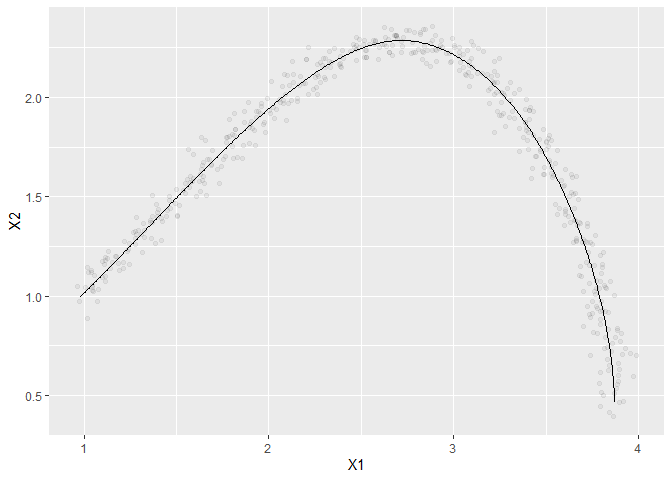
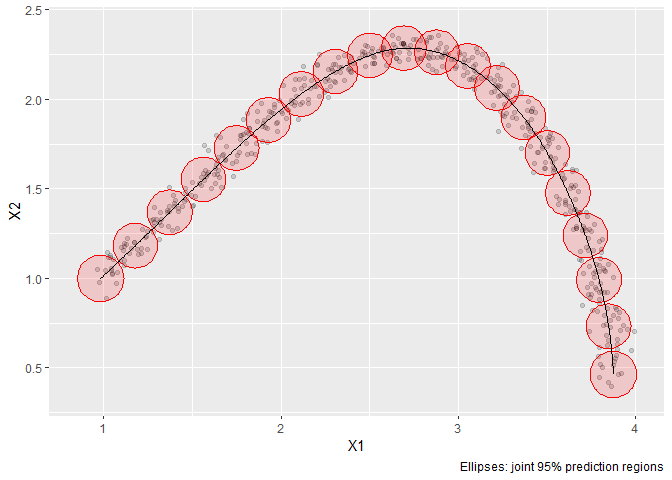
Add path intervals to visualizeEstPath; show path coverage in README
- visualizeEstPath gains CL, P_Int and n_ellipses. For paths with a
  covariance it draws prediction intervals (path uncertainty plus
  observation noise, the intervals coverageRatePath checks) or, with
  P_Int = FALSE, confidence intervals for the path: a band when time is
  on an axis, and axis-aligned joint ellipses at evenly spaced times for
  position plots. ByFours paths are drawn without intervals. Replaces
  the old zero-width ribbon placeholder.
- README Step 1 explains the intervals, shows the ellipse and time-band
  plots, and reports coverageRatePath (94.4% and 96.2% at 95%).
- Tests for band widths, agreement with coverageRatePath, ellipses and
  input checks.

R CMD check: 0 errors, 0 warnings, 1 NOTE (unable to verify current time).

diff --git a/README.md b/README.md
@@ -48,7 +48,7 @@ baseVectorFields
 #>     f2 = c(curPos[1], curPos[2])/sqrt(sum(c(curPos[1], curPos[2])^2))
 #>     matrix(c(f1, f2), nrow = 2, byrow = F)
 #> }
-#> <bytecode: 0x000002019179e510>
+#> <bytecode: 0x00000225f3717ce8>
 #> <environment: namespace:VFmixing>
 ```
 
@@ -98,8 +98,15 @@ The run time, in seconds:
 ``` r
 PathTime
 #>    user  system elapsed 
-#>    0.26    0.05    0.31
+#>    0.25    0.04    0.29
 ```
+
+Because the “FullFours” path has a covariance structure, the plot can
+show its uncertainty. By default these are 95% prediction intervals for
+a new observation: the uncertainty in the fitted path plus the
+observation noise (`P_Int = FALSE` shows a confidence interval for the
+path itself instead). When both axes are positions, they are drawn as
+ellipses at evenly spaced times:
 
 ``` r
 visualizeEstPath(Data = Data, EstPath = EstPath, t_grid_size = 0.01,
@@ -107,6 +114,29 @@ visualizeEstPath(Data = Data, EstPath = EstPath, t_grid_size = 0.01,
 ```
 
 <img src="man/figures/README-unnamed-chunk-6-1.png" width="100%" />
+
+With time on one axis, the interval is drawn as a band:
+
+``` r
+visualizeEstPath(Data = Data, EstPath = EstPath, t_grid_size = 0.01,
+                 x_var = 't', y_var = 'X1')
+```
+
+<img src="man/figures/README-unnamed-chunk-7-1.png" width="100%" />
+
+We can also check how well this uncertainty is calibrated.
+`coverageRatePath()` uses the same 95% prediction intervals at each data
+time and reports, for each dimension, the share of data points that fall
+inside them.
+
+``` r
+PathCovRate = coverageRatePath(EstPath = EstPath, Data = Data, CL = 0.95)
+PathCovRate
+#> [1] 0.9441118 0.9620758
+```
+
+The coverage rates for X1 and X2 are 94.4% and 96.2%, close to the
+nominal 95%.
 
 This estimated path is also included in the package as
 `ExEstPath_FullFours`.
@@ -156,7 +186,7 @@ The run time, in seconds:
 ``` r
 TrajTime
 #>    user  system elapsed 
-#>   12.75    0.36   13.79
+#>   11.20    0.29   11.71
 ```
 
 By default, every candidate up to `nsplits` is fit before the best one
@@ -177,7 +207,7 @@ PatienceTime <- system.time(
 ``` r
 PatienceTime
 #>    user  system elapsed 
-#>    0.09    0.00    0.09
+#>    0.04    0.00    0.06
 
 # Same trajectory as the full search?
 isTRUE(all.equal(EstTrajPatience$Traj, EstTraj$Traj))
@@ -192,7 +222,7 @@ visualizeEstTraj(EstTraj = EstTraj, TrueTraj = TrueTraj$Traj,
                  CL = 0.95, P_Int = T, Cos_Cutoff = 0.91)
 ```
 
-<img src="man/figures/README-unnamed-chunk-11-1.png" width="100%" />
+<img src="man/figures/README-unnamed-chunk-13-1.png" width="100%" />
 
 In the plot above, we can see our estimate of the trajectory (solid
 line) next to the true trajectories used to construct the data (dashed
